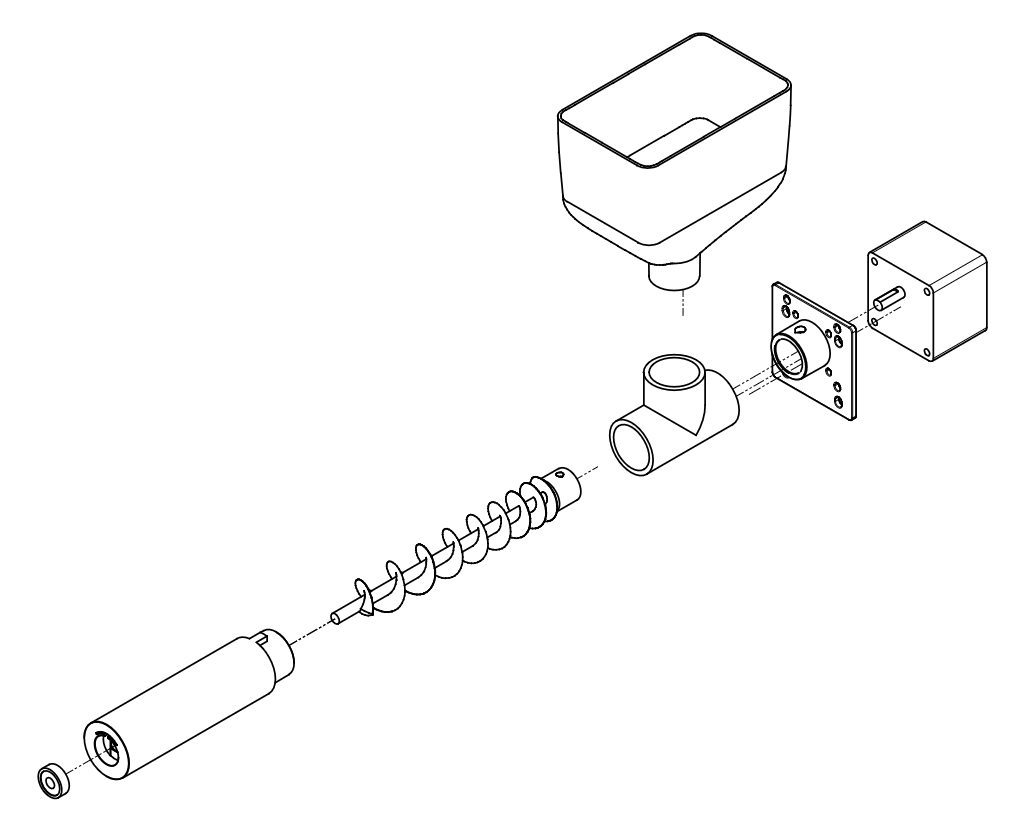
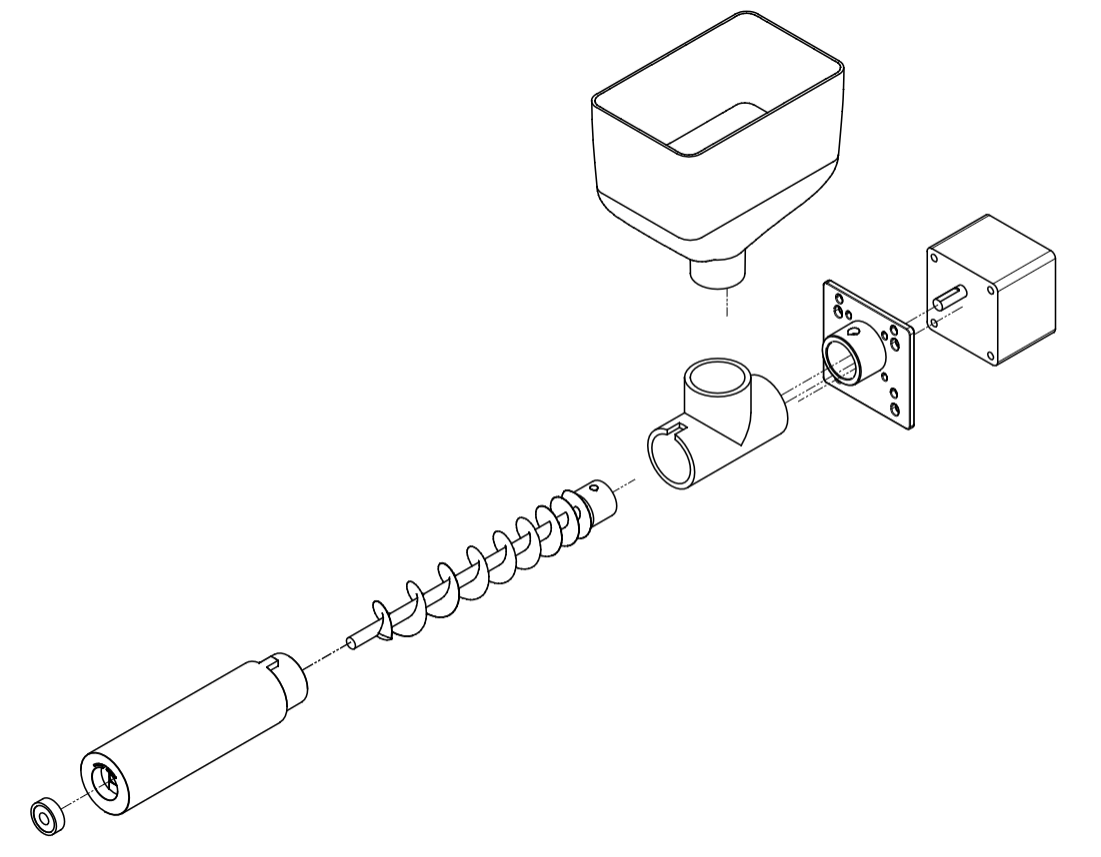
update light duty feeder info and images

diff --git a/feeders/light_duty/README.md b/feeders/light_duty/README.md
@@ -2,25 +2,28 @@
 
 This feeder was designed to deliver rice grains for "rice pile" type experiments.
 
+![light duty feeder assembly rendered](/feeders/light_duty/media/light_duty_rendered.png){height=420}
+
 A driving design principle for the light duty feeder is extremely low cost.
 This has been achieved by using an off-the-shelf plumbing part for the main feeder housing, and standard hardware and mounting configurations. 
 
 
-This feeder may not be sutiable for clastic sediments, due to the inherent strength of 3D printed materials.
+This feeder may not be suitable for clastic sediments, due to the inherent strength of 3D-printed materials.
 The design and print instructions are optimized for easy printing and maximum strength for FDM printing.  
 
 
 ## Bill of Materials
 
-![exploded light duty feeder](/feeders/light_duty/media/light_duty_labeled.png)
+![exploded light duty feeder](/feeders/light_duty/media/light_duty_labeled.png){width=600}
 
 * 1 x 1 inch schedule 40 PVC tee connector
 * 1 x 608RS bearing
-* SET SCREW AND NUT
-* [a motor assembly](/motor_assemblies/)and appropriate mounting screws
-* other 3D printed components (see below)
+* 1 x M4 nut
+* 1 x M4 by 5 mm set screw
+* [a motor assembly](/motor_assemblies/) with 8 mm output shaft, and appropriate mounting screws
+* 3D-printed components (see below)
 
-* you will need various allen wrenches, a small hacksaw, screwdriver, etc
+You also will need standard tools, likely including Allen wrenches, a hacksaw, a screwdriver, etc.
 
 
 ## Instructions and build notes
@@ -29,29 +32,30 @@ The design and print instructions are optimized for easy printing and maximum st
 
 * The `end_cap` has mounting holes for NEMA 17 and 23 stepper motors, as well as the AC motor listed in the motor assembly section. 
 * The `chute` has a mounting point for a 608 bearing. The feeder may function fine without the bearing, but will have considerably more play in the auger shaft.
-* The `auger` is designed for a motor assembly with an 8mm D shaft.
+* The `auger` is designed for a motor assembly with an 8 mm D shaft.
 
 ### Printing
 
 All components can be printed in material of your choice. 
 PLA works well, but PETG or ABS may provide stronger components. 
 Both textured and flat build plates will be fine. 
-All parts can be printed with 15% infill, except the auger, which should be printed at 100% infill.
+All parts can be printed with 15% infill, except the `auger`, which should be printed at 100% infill.
 
-* The auger halves should be printed with the flat side down, and then glued together with CA glue. 
+* The `auger` halves should be printed with the flat side down, and then glued together with CA glue. 
   * This part should be printed at 100% infill.
-  * If you would like to print the auger in a resin printer, an unsplit auger .stl file is also provided.
-* Chute cap should be printed on bearing side. 
-* End cap should be printed on motor side.
-* Hopper should be printed on wide end (i.e., upside down funnel). 
+  * If you would like to print the `auger` in a resin printer, an unsplit auger .stl file is also provided.
+* The `chute` should be printed on the bearing side. 
+* The `end_cap` should be printed on motor side.
+* The `hopper` should be printed on the wide end (i.e., upside down). 
 
 ### Assembly
 
 After printing all components:
-1. using a saw, cut a small notch in end of one side of the long edge of the PVC tee, with the notch on the same side as the short side of the tee.
-1. insert the bearing into the back of the `chute`.
-1. insert the MX nut into the back of the `auger`. 
-1. attach `end_cap` to motor face using appropriate screws.
-1. slide `auger` onto motor output shaft and tighten MX set screw.
-1. slide `chute` over `auger` and align with notch in PVC tee. Some force may be required to seat the `auger` end into the bearing.
-1. insert `hopper` into PVC tee.
+1. Using a saw, cut a small notch in end of one side of the long edge of the PVC tee, with the notch on the same side as the short side of the tee. The notch should be larger than the corresponding block on the `chute` (cut a ~7 mm  wide by ~11 mm deep notch); it is okay if the notch is slightly larger than needed creating some play, but try to keep it at tight as possible.
+1. Insert the bearing into the back of the `chute`.
+1. Insert the M4 nut into the back of the `auger`. You can use some CA glue to hold the nut in place, but it is not necessary.  
+1. Attach the `end_cap` to motor face using appropriate screws and mounting holes.
+1. Slide the `auger` onto the motor output shaft, and tighten M4 set screw onto flat of D output shaft.
+1. Slide the `chute` over the `auger`, and carefully align block with notch in PVC tee and `auger` end with inner bearing hole. Some force may be required to seat the `auger` end into the inner bearing hole.
+1. Insert the `hopper` into PVC tee.
+1. Fill `hopper` with granular material, provide power to motor assembly. 
